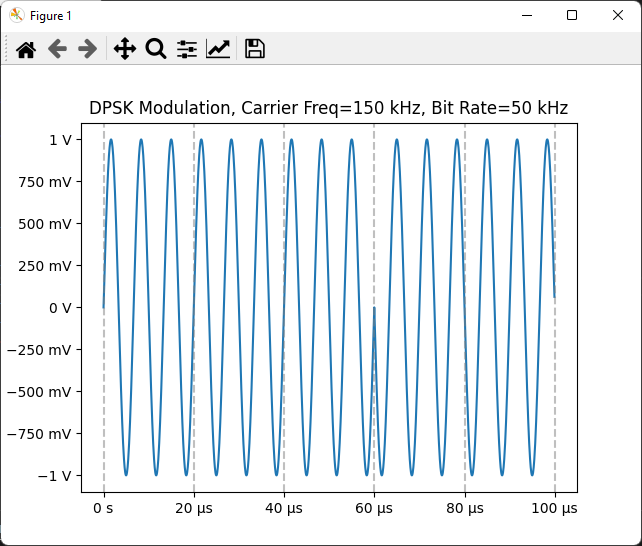
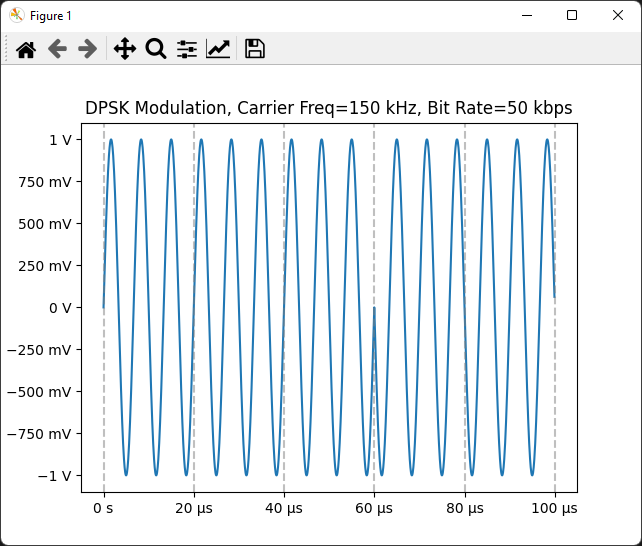
Fixed data rate units on plot

Changed region(s): [[0.1246, 0.1868, 0.9034, 0.2179], [0.0, 0.0, 0.0312, 0.0311]]

diff --git a/digital_modulation/digital_modulation.py b/digital_modulation/digital_modulation.py
@@ -249,9 +249,9 @@ class Digital_Modulation():
      # Format data rate to symbols/second for quadrature
     eng_formatter_freq = EngFormatter(unit="Hz") # Engineering notation for Hz
     if self.quadrature == True:
-      data_rate = f"Symbol Rate={eng_formatter_freq.format_eng(self.rb/2)}"
+      data_rate = f"Symbol Rate={eng_formatter_freq.format_eng(self.rb/2)}sps"
     else:
-      data_rate = f"Bit Rate={eng_formatter_freq.format_eng(self.rb)}"
+      data_rate = f"Bit Rate={eng_formatter_freq.format_eng(self.rb)}bps"
       
     fig = plt.figure(1)
     ax = fig.add_subplot(111)
@@ -263,7 +263,7 @@ class Digital_Modulation():
     eng_formatter_amp = EngFormatter(unit="V") # Set engineering notation formatter for time
     fig.get_axes()[0].yaxis.set_major_formatter(eng_formatter_amp)
 
-    plt.title(f"{self.modulation_technique} Modulation, Carrier Freq={eng_formatter_freq.format_eng(self.fc)}Hz, {data_rate}Hz")
+    plt.title(f"{self.modulation_technique} Modulation, Carrier Freq={eng_formatter_freq.format_eng(self.fc)}Hz, {data_rate}")
     for i in range(self.symbols + 1): # Vertial lines at the edge of each symbol period
       plt.axvline(x=i*(self.x[1]*self.RESOLUTION*self.cycles_per_symbol), color='grey', ls='--', alpha=0.5) # x[1] is the size of one time step assuming x[0] is 0
     plt.show()
